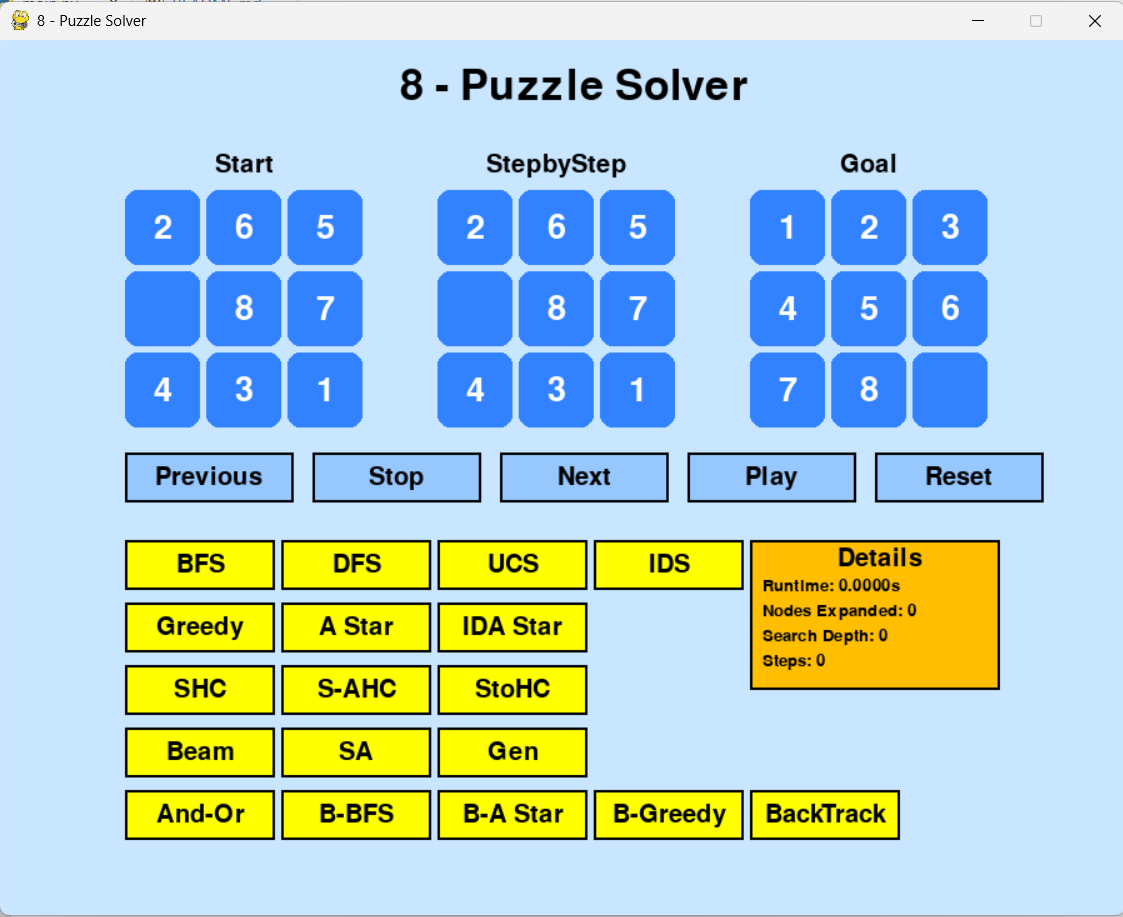
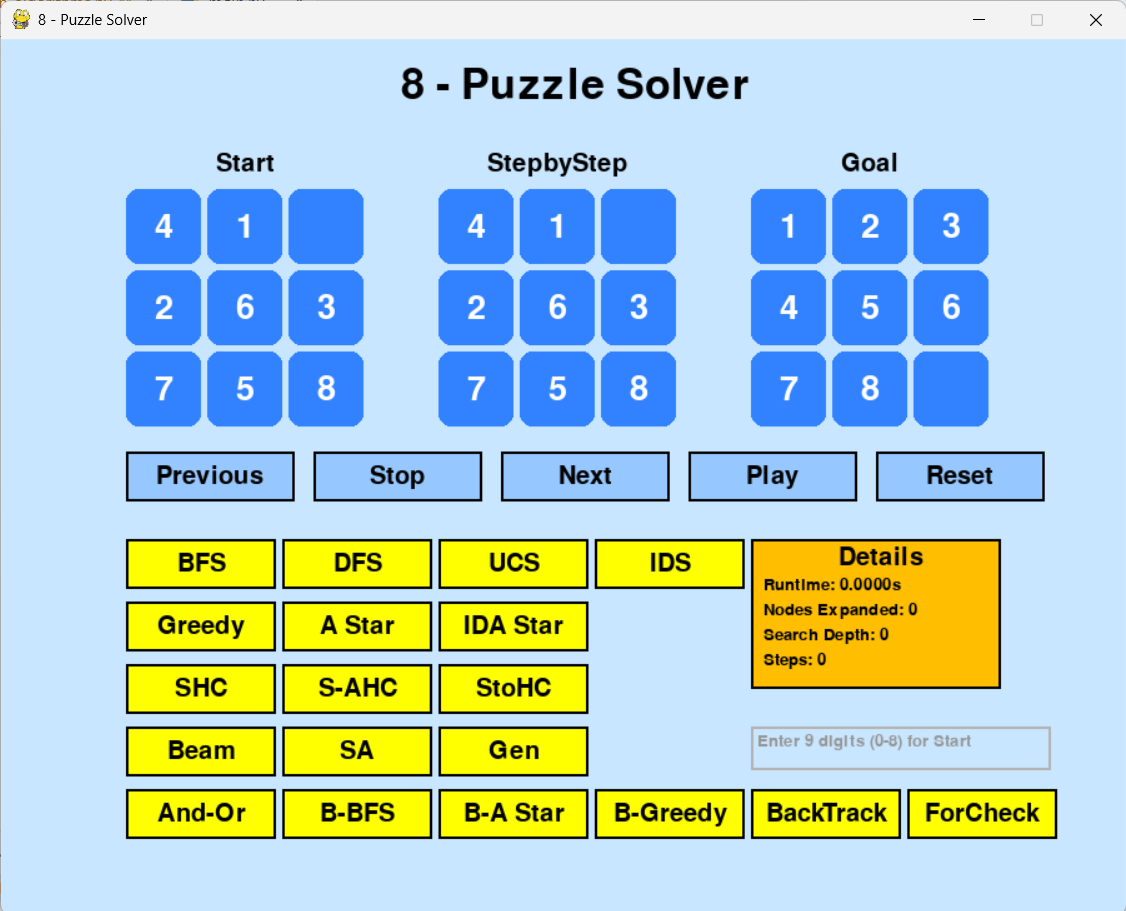
Updated Gif Algorithms and README file

diff --git a/search_algorithms.py b/search_algorithms.py
@@ -577,33 +577,61 @@ def and_or_graph_search(start, goal, max_depth=50):
         return [], 0, nodes_expanded, 0
 
 
-# Lớp môi trường niềm tin (Belief State) - để quản lý trạng thái niềm tin
+# Lớp môi trường niềm tin
 class BeliefState:
     def __init__(self, states):
         self.states = states  # Danh sách các trạng thái có thể xảy ra
 
     def is_goal(self, goal):
+        # Tất cả trạng thái trong belief đạt goal là thành công
         return all(s == goal for s in self.states)
 
     def apply_action(self, action_fn):
         next_states = set()
         for s in self.states:
             neighbors = action_fn(s)  # [(dx, dy, new_state), ...]
-            for _, _, ns in neighbors:  # Chỉ lấy new_state
-                next_states.add(tuple(map(tuple, ns)))  # Dùng tuple để loại trùng
+            for _, _, ns in neighbors:
+                next_states.add(tuple(map(tuple, ns)))  # dùng tuple để loại trùng
+        # Trả lại belief mới (danh sách ma trận)
         return BeliefState([list([list(row) for row in s]) for s in next_states])
 
 
-# Thuật toán BFS cho trạng thái niềm tin
-def belief_bfs_solve(start_states, goal):
+# Hàm phụ để hiển thị các trạng thái niềm tin đại diện
+def print_sample_beliefs(belief, max_display=50):
+    print(f"\nBelief Size: {len(belief.states)}")
+    for idx, state in enumerate(belief.states[:max_display]):
+        print(f"State {idx + 1}:")
+        for row in state:
+            print(row)
+        print()
+
+
+# Thuật toán BFS trong môi trường niềm tin
+def belief_bfs_solve(start_states, goal, max_depth=30):
+    print("Start State:")
+    for row in start_states[0]:
+        print(row)
+
+    print("\nInitial Belief States:")
+    for idx, state in enumerate(start_states):
+        print(f"Belief State {idx + 1}:")
+        for row in state:
+            print(row)
+        print()
+
     start_time = time.time()
     initial_belief = BeliefState(start_states)
     queue = deque([(initial_belief, [])])
     visited = set()
     nodes_expanded = 0
+    last_belief = initial_belief  # lưu lại trạng thái cuối cùng để debug
 
     while queue:
         belief, path = queue.popleft()
+        if len(path) > max_depth:
+            continue  # Bỏ qua nếu quá sâu
+
+        # Chuẩn hóa để kiểm tra visited
         belief_key = tuple(sorted(tuple(map(tuple, s)) for s in belief.states))
         if belief_key in visited:
             continue
@@ -611,6 +639,8 @@ def belief_bfs_solve(start_states, goal):
         nodes_expanded += 1
 
         if belief.is_goal(goal):
+            print("\nGoal found in belief!")
+            print_sample_beliefs(belief)
             return (
                 path + [belief.states[0]],
                 round(time.time() - start_time, 4),
@@ -620,12 +650,27 @@ def belief_bfs_solve(start_states, goal):
 
         new_belief = belief.apply_action(get_neighbors)
         queue.append((new_belief, path + [belief.states[0]]))
+        last_belief = new_belief
 
+    # Không tìm được lời giải
+    print("\nGoal NOT found in belief.")
+    print_sample_beliefs(last_belief)
     return [], 0, nodes_expanded, 0
 
 
-# Thuật toán A-Star cho trạng thái niềm tin
+#  Thuật toán A* cho môi trường niềm tin
 def belief_a_star_solve(start_states, goal):
+    print("Start State:")
+    for row in start_states[0]:
+        print(row)
+
+    print("\nInitial Belief States:")
+    for idx, state in enumerate(start_states):
+        print(f"Belief State {idx + 1}:")
+        for row in state:
+            print(row)
+        print()
+
     start_time = time.time()
     nodes_expanded = 0
 
@@ -635,6 +680,7 @@ def belief_a_star_solve(start_states, goal):
     initial_belief = BeliefState(start_states)
     heap = [(belief_heuristic(initial_belief), 0, initial_belief, [])]
     visited = set()
+    last_belief = initial_belief
 
     while heap:
         _, g, belief, path = heapq.heappop(heap)
@@ -645,6 +691,8 @@ def belief_a_star_solve(start_states, goal):
         nodes_expanded += 1
 
         if belief.is_goal(goal):
+            print("\nGoal reached in belief!")
+            print_sample_beliefs(belief)
             return (
                 path + [belief.states[0]],
                 round(time.time() - start_time, 4),
@@ -655,12 +703,26 @@ def belief_a_star_solve(start_states, goal):
         next_belief = belief.apply_action(get_neighbors)
         f = g + 1 + belief_heuristic(next_belief)
         heapq.heappush(heap, (f, g + 1, next_belief, path + [belief.states[0]]))
+        last_belief = next_belief
 
+    print("\nGoal NOT found. Last Belief State:")
+    print_sample_beliefs(last_belief)
     return [], 0, nodes_expanded, 0
 
 
-# Thuật toán Greedy Best-First Search cho trạng thái niềm tin
+# Thuật toán Greedy Best-First Search cho môi trường niềm tin
 def belief_greedy_solve(start_states, goal):
+    print("Start State:")
+    for row in start_states[0]:
+        print(row)
+
+    print("\nInitial Belief States:")
+    for idx, state in enumerate(start_states):
+        print(f"Belief State {idx + 1}:")
+        for row in state:
+            print(row)
+        print()
+
     start_time = time.time()
     nodes_expanded = 0
 
@@ -670,6 +732,7 @@ def belief_greedy_solve(start_states, goal):
     initial_belief = BeliefState(start_states)
     heap = [(belief_heuristic(initial_belief), initial_belief, [])]
     visited = set()
+    last_belief = initial_belief
 
     while heap:
         _, belief, path = heapq.heappop(heap)
@@ -680,6 +743,8 @@ def belief_greedy_solve(start_states, goal):
         nodes_expanded += 1
 
         if belief.is_goal(goal):
+            print("\nGoal reached in belief!")
+            print_sample_beliefs(belief)
             return (
                 path + [belief.states[0]],
                 round(time.time() - start_time, 4),
@@ -690,7 +755,10 @@ def belief_greedy_solve(start_states, goal):
         next_belief = belief.apply_action(get_neighbors)
         h = belief_heuristic(next_belief)
         heapq.heappush(heap, (h, next_belief, path + [belief.states[0]]))
+        last_belief = next_belief
 
+    print("\nGoal NOT found. Last Belief State:")
+    print_sample_beliefs(last_belief)
     return [], 0, nodes_expanded, 0
 
 

diff --git a/main.py b/main.py
@@ -56,7 +56,7 @@ cell_size = 60
 gap = 5
 
 # Nhập ma trận dữ liệu
-start_state = [[4, 1, 0], [2, 6, 3], [7, 5, 8]]  # start_state mặc định
+start_state = [[2, 6, 5], [0, 8, 7], [4, 3, 1]]  # start_state mặc định
 goal_state = [[1, 2, 3], [4, 5, 6], [7, 8, 0]]
 current_state = copy.deepcopy(start_state)
 

diff --git a/README.md b/README.md
@@ -64,7 +64,7 @@ Dự án bao gồm:
 
 - **A\* Search**: Tìm kiếm có chi phí và heuristics.
 
-- **IDA\* Search**: Tìm kiếm sâu dần và có chi phí.
+- **IDA\* Search**: Tìm kiếm sâu dần và có chi phí tương tự A\*.
 
 ### **Local Search Algorithms:**
 
@@ -82,6 +82,8 @@ Dự án bao gồm:
 
 ### **And-Or Graph Search Algorithm**
 
+Thuật toán được dùng trong môi trường có cấu trúc phân nhánh kiểu "AND" và "OR". Mỗi nút OR đại diện cho lựa chọn giữa các hành động, còn nút AND đại diện cho các hành động bắt buộc thực hiện đồng thời. Thuật toán này phù hợp với các bài toán có mục tiêu phụ thuộc nhiều điều kiện, ví dụ như trong môi trường phân rã nhiệm vụ (task decomposition) hoặc điều khiển hệ thống trong môi trường không chắc chắn.
+
 ### **Belief Propagation Algorithms:**
 
 - **Belief-BFS**: Tìm kiếm theo chiều rộng trong môi trường niềm tin.
@@ -92,9 +94,9 @@ Dự án bao gồm:
 
 ### **CSP Algorithms:**
 
-- **Backtracking Algorithm**
+- **Backtracking Algorithm**: Giải bài toán bằng cách thử từng giá trị cho biến theo thứ tự, kiểm tra ràng buộc sau mỗi bước. Nếu phát hiện xung đột, thuật toán quay lui (backtrack) để thử giá trị khác.
 
-- **Forward Checking Algorithm**
+- **Forward Checking Algorithm**: Mở rộng thuật toán backtracking bằng cách, sau mỗi lần gán biến, loại bỏ các giá trị không hợp lệ khỏi miền giá trị của các biến còn lại. Điều này giúp phát hiện sớm mâu thuẫn và giảm đáng kể không gian tìm kiếm.
 
 ---
 
@@ -177,7 +179,15 @@ Bạn có thể sử dụng, sửa đổi và phân phối phần mềm này cho
 
 ## Các nguồn tham khảo
 
----
+[8-Puzzle Solver Web App - by AbdElRahman Osama](https://8-puzzle.streamlit.app/)
+
+[eight-puzzle-solver - by Elzawawy](https://github.com/Elzawawy/eight-puzzle-solver)
+
+[8-Puzzle-Solver - by yousefkotp](https://github.com/yousefkotp/8-Puzzle-Solver)
+
+[8-puzzle-solver - by dgurkaynak](https://github.com/dgurkaynak/8-puzzle-solver?tab=readme-ov-file)
+
+## [pynpuzzle - by mahdavipanah](https://github.com/mahdavipanah/pynpuzzle)
 
 ## **Tác giả**
 
